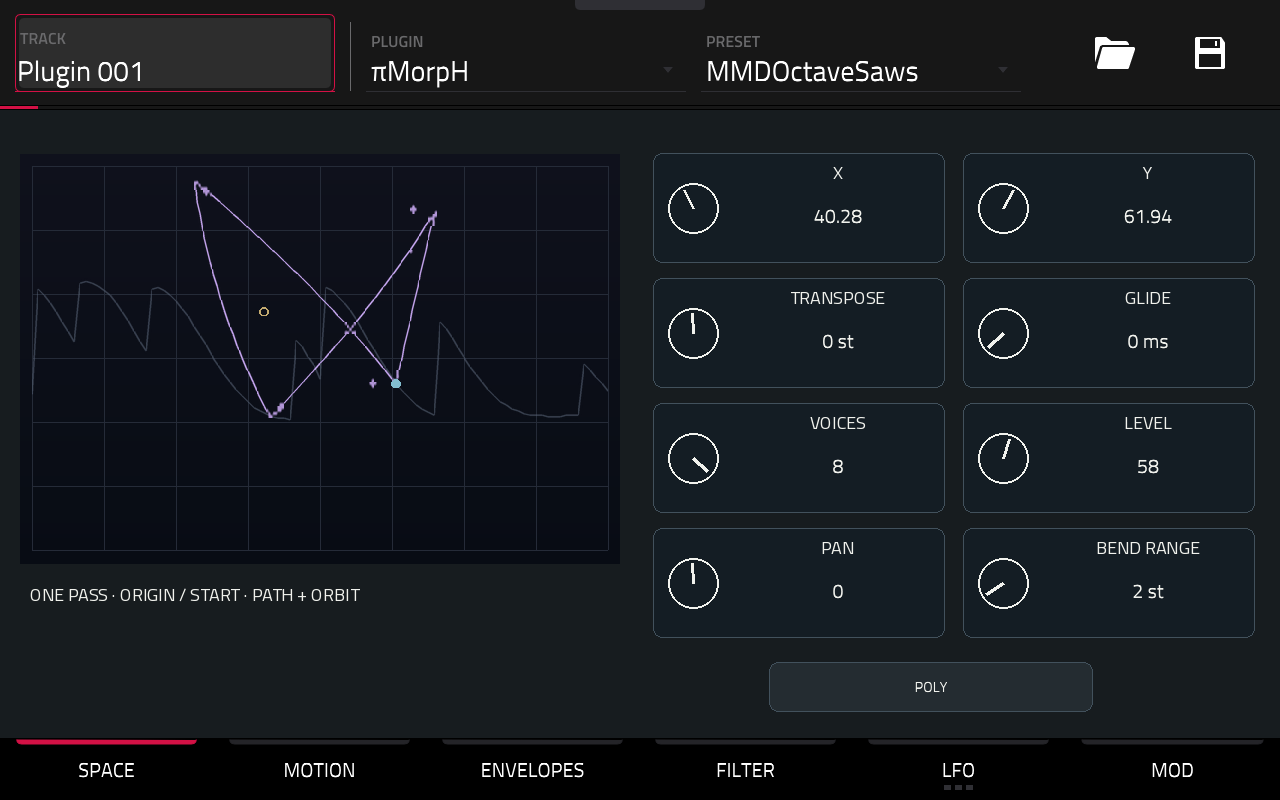
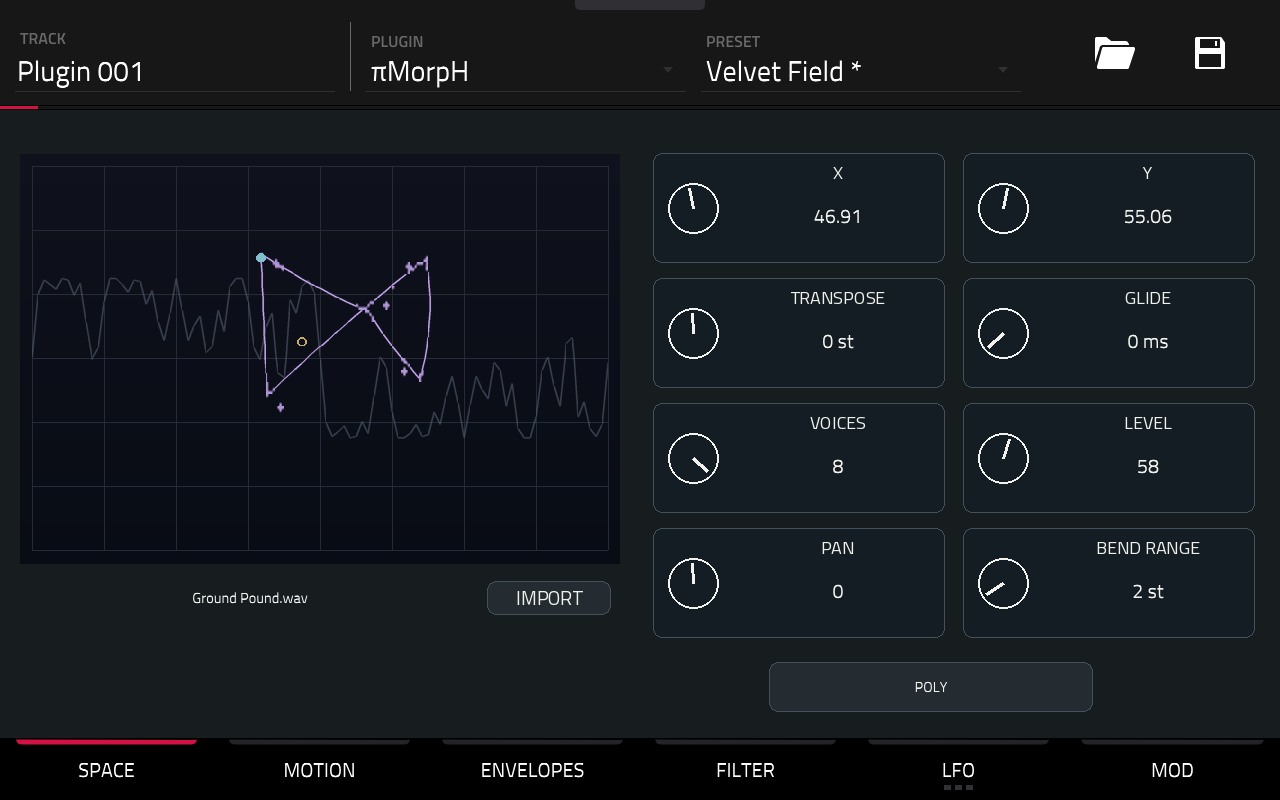
Release 0.1.2 Custom Wavetable with supported-format documentation

diff --git a/docs/MODE-EMPLOI.html b/docs/MODE-EMPLOI.html
@@ -2,7 +2,7 @@
 <p><a href="USER-MANUAL.md">English</a></p>
 <p>Choisis un son. Joue une note. Fais voyager son timbre.</p>
 <p><strong>πMorpH est un synthétiseur polyphonique à tables d’ondes.</strong> Chaque voix explore un espace XY, suit un trajet et une orbite, puis traverse deux filtres. Enveloppes et LFO donnent vie à l’ensemble.</p>
-<p>Ce guide décrit la version <strong>0.1.2 candidate, Force Gen1 / ARM32</strong>, avec <strong>100 sons paramétrés + INIT</strong>.</p>
+<p>Ce guide décrit la version <strong>0.1.2, Force Gen1 / ARM32</strong>, avec <strong>100 sons paramétrés + INIT</strong>.</p>
 <h2>1. Premier voyage</h2>
 <p>Charge πMorpH sur une piste Plugin.</p>
 <p>Ouvre <strong>PRESET</strong>, en haut à droite, et choisis un son. Les familles proposées vont des basses aux nappes, plucks, leads, textures et claviers. <strong>INIT</strong>, en fin de liste, offre un départ simple.</p>
@@ -31,12 +31,47 @@
 <li><strong>MONO</strong> : une voix, enveloppes redéclenchées.</li>
 <li><strong>LEGATO</strong> : une voix ; les notes liées gardent les enveloppes et le mouvement en cours.</li>
 </ul>
-<h3>Importer sa propre table</h3>
-<p>Dans <strong>SPACE</strong>, touche <strong>IMPORT</strong>, puis choisis un WAV sur <strong>DISKS</strong> ou <strong>USER</strong>. Premier appui : validation, <strong>VALID en vert</strong>, sans changer le son. Second appui sur le même fichier : <strong>LOADING en vert</strong>, puis fermeture du panneau. Une erreur apparaît en rouge avec <strong>ERROR :</strong> ; la table actuelle reste chargée.</p>
-<p><strong>1 à 256 formes</strong> avec métadonnées de cycles cohérentes, de <strong>512, 1 024 ou 2 048 échantillons</strong> chacune. WAV <strong>PCM 16 bits, PCM 32 bits ou flottant 32 bits</strong>, mono ou stéréo.</p>
-<p>La taille des formes est reconnue automatiquement. La stéréo est moyennée en mono ; le niveau est normalisé en mémoire. La fréquence indiquée dans le WAV ne change pas la hauteur de l’oscillateur.</p>
+<h3>Custom Wavetable — Ta propre matière</h3>
+<p>Dans <strong>SPACE</strong>, touche <strong>IMPORT</strong>, puis choisis un WAV sur <strong>DISKS</strong> ou <strong>USER</strong>.</p>
+<p><strong>Premier appui</strong> : validation, <strong>VALID en vert</strong>, sans changer le son.</p>
+<p><strong>Second appui</strong> sur le même fichier : <strong>LOADING en vert</strong>, puis fermeture du panneau.</p>
+<p><strong>ERROR :</strong> apparaît en rouge en cas d’échec ; la table actuelle reste chargée.</p>
+<table>
+<thead>
+<tr>
+<th>WAV</th>
+<th>Canaux</th>
+<th>Échantillons par forme</th>
+<th>Formes</th>
+</tr>
+</thead>
+<tbody>
+<tr>
+<td>PCM 16 bits</td>
+<td>Mono ou stéréo</td>
+<td>512 / 1 024 / 2 048</td>
+<td>1 à 256 avec métadonnées cohérentes</td>
+</tr>
+<tr>
+<td>PCM 32 bits</td>
+<td>Mono ou stéréo</td>
+<td>512 / 1 024 / 2 048</td>
+<td>1 à 256 avec métadonnées cohérentes</td>
+</tr>
+<tr>
+<td>Flottant 32 bits</td>
+<td>Mono ou stéréo</td>
+<td>512 / 1 024 / 2 048</td>
+<td>1 à 256 avec métadonnées cohérentes</td>
+</tr>
+</tbody>
+</table>
+<p>Les métadonnées de cycles sont respectées : une table de 64 × 2 048 reste une table de 64 formes. Sans métadonnées, les exports de 256 formes sont reconnus par leur longueur ; les autres découpages doivent être non ambigus.</p>
+<p>La stéréo est moyennée en mono ; le niveau est normalisé en mémoire.</p>
+<p>La fréquence indiquée dans le WAV ne change pas la hauteur de l’oscillateur : 44,1 et 48 kHz sont acceptés sans rééchantillonnage audio.</p>
 <p>Tes réglages restent en place. En cas d’échec, la table actuelle reste chargée.</p>
 <p>Le preset et le projet mémorisent <strong>le chemin du WAV</strong> : conserve-le au même endroit. Le fichier d’origine n’est jamais modifié.</p>
+<p>Le nom du WAV apparaît sous le graphique. Le nom du preset en haut reste celui du son de départ tant que tu n’en sauvegardes pas un nouveau.</p>
 <h2>3. MOTION — Dessiner le voyage</h2>
 <p><img alt="MOTION sur la Force" src="images/motion-force.png" /></p>
 <p>Le déplacement commence avec chaque nouvelle voix. Sa durée suit le tempo de la Force.</p>

diff --git a/docs/USER-MANUAL.html b/docs/USER-MANUAL.html
@@ -2,7 +2,7 @@
 <p><a href="MODE-EMPLOI.md">Français</a></p>
 <p>Pick a sound. Play a note. Let its timbre travel.</p>
 <p><strong>πMorpH is a polyphonic wavetable synthesizer.</strong> Each voice explores an XY space, follows a path and an orbit, then passes through two filters. Envelopes and LFOs bring it to life.</p>
-<p>This guide describes the <strong>0.1.2 candidate, Force Gen1 / ARM32</strong> release with <strong>100 shaped sounds + INIT</strong>.</p>
+<p>This guide describes the <strong>0.1.2, Force Gen1 / ARM32</strong> release with <strong>100 shaped sounds + INIT</strong>.</p>
 <h2>1. Your first journey</h2>
 <p>Load πMorpH on a Plugin track.</p>
 <p>Open <strong>PRESET</strong> at the top right and choose a sound. The bank covers basses, pads, plucks, leads, textures and keys. <strong>INIT</strong>, at the end of the list, offers a simple starting point.</p>
@@ -31,12 +31,47 @@
 <li><strong>MONO</strong>: one voice, with envelopes retriggered.</li>
 <li><strong>LEGATO</strong>: one voice; overlapping notes keep the envelopes and movement running.</li>
 </ul>
-<h3>Import your own table</h3>
-<p>In <strong>SPACE</strong>, press <strong>IMPORT</strong>, then choose a WAV from <strong>DISKS</strong> or <strong>USER</strong>. First tap validates without changing the sound: <strong>VALID in green</strong>. Tap the same file again: <strong>LOADING in green</strong>, then the panel closes. Errors appear in red with <strong>ERROR :</strong> and leave the current table active.</p>
-<p><strong>1–256 waveforms</strong> with consistent cycle metadata, each containing <strong>512, 1024 or 2048 samples</strong>. <strong>PCM16, PCM32 or float32 WAV</strong>, mono or stereo.</p>
-<p>Cycle size is detected automatically. Stereo is averaged to mono and the table is normalized in memory. The WAV sample-rate field does not change oscillator pitch.</p>
+<h3>Custom Wavetable — Your own material</h3>
+<p>In <strong>SPACE</strong>, press <strong>IMPORT</strong>, then choose a WAV from <strong>DISKS</strong> or <strong>USER</strong>.</p>
+<p><strong>First tap</strong> validates without changing the sound: <strong>VALID in green</strong>.</p>
+<p><strong>Tap the same file again</strong>: <strong>LOADING in green</strong>, then the panel closes.</p>
+<p><strong>ERROR :</strong> appears in red on failure, leaving the current table active.</p>
+<table>
+<thead>
+<tr>
+<th>WAV encoding</th>
+<th>Channels</th>
+<th>Samples per waveform</th>
+<th>Waveforms</th>
+</tr>
+</thead>
+<tbody>
+<tr>
+<td>PCM 16-bit</td>
+<td>Mono or stereo</td>
+<td>512 / 1024 / 2048</td>
+<td>1–256 with consistent cycle metadata</td>
+</tr>
+<tr>
+<td>PCM 32-bit</td>
+<td>Mono or stereo</td>
+<td>512 / 1024 / 2048</td>
+<td>1–256 with consistent cycle metadata</td>
+</tr>
+<tr>
+<td>Float 32-bit</td>
+<td>Mono or stereo</td>
+<td>512 / 1024 / 2048</td>
+<td>1–256 with consistent cycle metadata</td>
+</tr>
+</tbody>
+</table>
+<p>Valid cycle metadata takes precedence: a 64 × 2048 table stays a 64-waveform table. Without metadata, 256-waveform exports are detected by length; other layouts must be unambiguous.</p>
+<p>Stereo is averaged to mono and the table is normalized in memory.</p>
+<p>The WAV sample-rate field does not change oscillator pitch: 44.1 and 48 kHz files are accepted without audio resampling.</p>
 <p>Your sound settings remain. If import fails, the current table stays loaded.</p>
 <p>Presets and projects store <strong>the WAV path</strong>: keep it at that location. The original file is never modified.</p>
+<p>The WAV filename appears below the graph. The preset name at the top remains the starting sound’s name until you save a new preset.</p>
 <h2>3. MOTION — Draw the journey</h2>
 <p><img alt="MOTION on Force" src="images/motion-force.png" /></p>
 <p>Movement starts with each newly triggered voice. Its timing follows the Force tempo.</p>

diff --git a/scripts/package_release.py b/scripts/package_release.py
@@ -3,6 +3,8 @@ from pathlib import Path
 import json,hashlib,zipfile,shutil,subprocess,sys,xml.etree.ElementTree as E
 from config import B,FOLDER,VERSION
 sha=lambda p:hashlib.sha256(p.read_bytes()).hexdigest()
+promotion_path=B/'Validation/RELEASE-PROMOTION.json'
+promotion=json.loads(promotion_path.read_text()) if promotion_path.exists() else {}
 RELEASE_VERSION=VERSION.split('-')[0]
 assert RELEASE_VERSION=='0.1.2'
 assert Path(B/'Validation/IMPORT-TEST.json').exists()
@@ -18,10 +20,12 @@ shutil.copytree(B/'Wavetables',stage/'Wavetables');shutil.copytree(B/'docs',stag
 shutil.copy2(B/'LICENSE',stage/'licenses/piMorpH-GPL-3.0.txt');shutil.copy2(B/'THIRD-PARTY.md',stage/'licenses/THIRD-PARTY.md')
 for src,dst in [('third_party/mpc-wrapper/LICENSE','wrapper-MIT.txt'),('third_party/PolyWerk/LICENSE','PolyWerk-MIT.txt'),('third_party/MS20XXL/LICENSE','MS20XXL-GPL.txt'),('third_party/overcast/LICENSE','Overcast-MIT.txt'),('reference/fonts/OFL.txt','Titillium-OFL.txt')]:shutil.copy2(B/src,stage/'licenses'/dst)
 shutil.copy2(B/'presets/programs.json',stage/'factory-programmes.json')
-(stage/'PROVENANCE.json').write_text(json.dumps(dict(version=VERSION,architecture='armv7',engine_sha256=sha(B/'build/pimorph.so'),factory_programmes=101,tables=100,source_repo='timomacquis/piMorpH-MPC',build_inputs=built['inputs'],hardware_qualified=False),indent=2)+'\n')
+(stage/'PROVENANCE.json').write_text(json.dumps(dict(version=VERSION,architecture='armv7',engine_sha256=sha(B/'build/pimorph.so'),factory_programmes=101,tables=100,source_repo='timomacquis/piMorpH-MPC',build_inputs=built['inputs'],hardware_qualified=False,device_smoke_validated=bool(promotion.get('device_smoke_validated')),runtime_identical_to=promotion.get('candidate')),indent=2)+'\n')
+if promotion:
+ for n,h in promotion['runtime_sha256'].items():assert sha(B/'build/pimorph.so' if n=='pimorph.so' else stage/n)==h,'Validated runtime changed: '+n
 entry=B/'build/release-entry.xml';entry.write_text(E.tostring(E.Element('PLUGIN',name='πMorpH',descriptiveName='πMorpH',format='VST',category='Synth',manufacturer='Timo',version=RELEASE_VERSION,file='%payload-path%/'+FOLDER+'/pimorph.so',uid='50694d48',isInstrument='1',numInputs='0',numOutputs='2'),encoding='unicode'))
 out=B/'dist';out.mkdir(exist_ok=True);tools=B/'third_party/open-mpc-release/tools'
-subprocess.run([sys.executable,str(tools/'release.py'),'--so',str(B/'build/pimorph.so'),'--skin',str(stage),'--entry',str(entry),'--version',RELEASE_VERSION,'--id','pimorph','--repo','timomacquis/piMorpH-MPC','--license','GPL-3.0-or-later','--about','Polyphonic XY wavetable synthesizer with paths, orbit, dual envelopes, HP/LP filters, dual LFOs, modulation matrix and 100 original multi-frame wavetable sounds with disk import.','-o',str(out)],check=True)
+subprocess.run([sys.executable,str(tools/'release.py'),'--so',str(B/'build/pimorph.so'),'--skin',str(stage),'--entry',str(entry),'--version',RELEASE_VERSION,'--id','pimorph','--repo','timomacquis/piMorpH-MPC','--license','GPL-3.0-or-later','--about','Polyphonic XY wavetable synthesizer with paths, orbit, dual envelopes, HP/LP filters, dual LFOs, modulation matrix and 100 factory sounds plus Custom Wavetable import.','-o',str(out)],check=True)
 p=out/('MorpH-'+RELEASE_VERSION+'-mpc-armv7.zip');target=out/('piMorpH-'+VERSION+'-mpc-armv7.zip');p.replace(target)
 subprocess.run([sys.executable,str(tools/'catalog_check.py'),str(target),'--catalog','--require-portable','--expect-id','pimorph','--expect-repo','timomacquis/piMorpH-MPC'],check=True)
 with zipfile.ZipFile(target) as z:

diff --git a/scripts/config.py b/scripts/config.py
@@ -1,7 +1,7 @@
 from pathlib import Path
 import math
 B=Path(__file__).resolve().parents[1]
-VERSION='0.1.2-candidate.2'
+VERSION='0.1.2'
 FOLDER='Timo - VST - πMorpH'
 PAGES=['SPACE','MOTION','ENVELOPES','FILTER','LFO','MOD']
 WAVES=['SINE','TRIANGLE','RAMP UP','RAMP DOWN','SQUARE','SAMPLE & HOLD','RANDOM SMOOTH','FREE CURVE','RANDOM WALK','RANDOM LOOP','BOUNCE']

diff --git a/README.md b/README.md
@@ -16,27 +16,42 @@ Each voice moves through a wavetable space using a path and an elliptical orbit.
 - Native touch controls, contextual Q-Links and compact selection panels.
 - Cached graphical previews, with background updates held during editing.
 - **100 original multi-frame wavetable sounds + INIT**, in the native PRESET menu.
-- Native preset/project state, including all musical parameters and the selected table.
+- **Custom Wavetable**: import your own WAV tables from the device drives.
+- Native preset/project state, including musical parameters and the selected table or external file path.
 
 ## Download
 
-[πMorpH 0.1.1 — Force Gen1 / ARMv7](https://github.com/timomacquis/piMorpH-MPC/releases/tag/v0.1.1)
+[πMorpH 0.1.2 — Force Gen1 / ARMv7](https://github.com/timomacquis/piMorpH-MPC/releases/tag/v0.1.2)
 
-Package: **piMorpH-0.1.1-mpc-armv7.zip**. Use the included standard installer after saving your project. No Gen2 package is provided.
+Package: **piMorpH-0.1.2-mpc-armv7.zip**. Use the included standard installer after saving your project. No Gen2 package is provided.
 
 [Français](docs/MODE-EMPLOI.md) · [English](docs/USER-MANUAL.md) · [Build](docs/BUILD.md) · [Validation](docs/VALIDATION.md).
 
-This update replaces the previous Adventure Kid bank, assembled from single-cycle waveforms, with 100 original multi-frame wavetable patches plus INIT. Velvet Field, edited on the Force, is preset 1. Keep the 0.1.0 package for projects using its old table filenames.
+## Custom Wavetable
+
+In **SPACE**, press **IMPORT** and browse **DISKS** or **USER**.
+
+1. Tap a WAV: **VALID** appears in green after validation, without changing the current sound.
+2. Tap the same file again: **LOADING** appears in green, then the panel closes.
+3. Shape the sound and save it through the native PRESET menu.
+
+| WAV encoding | Channels | Samples per waveform | Waveforms per table |
+|---|---|---|---|
+| PCM 16-bit | Mono or stereo | 512 / 1024 / 2048 | 1–256 with consistent cycle metadata |
+| PCM 32-bit | Mono or stereo | 512 / 1024 / 2048 | 1–256 with consistent cycle metadata |
+| Float 32-bit | Mono or stereo | 512 / 1024 / 2048 | 1–256 with consistent cycle metadata |
+
+Metadata-free 256-waveform exports are detected by length; other unambiguous layouts are accepted. Valid cycle metadata takes precedence, including 64 × 2048 tables. Stereo is averaged to mono and levels are normalized in memory. The WAV sample-rate field does not set oscillator pitch; 44.1 and 48 kHz files are supported without audio resampling.
+
+**The original WAV is never modified.** Presets and projects retain its absolute path: keep the file at that location. Invalid or silent files produce a red **ERROR :** message and leave the current table active. [Details](docs/IMPORT.md).
+
+The factory bank remains **100 sounds + INIT**, with Velvet Field first. Keep the 0.1.0 package for projects that reference its former Adventure Kid table filenames.
+
 
 ## Status
 
-Offline engine, wrapper, state, wavetable-loading and rendering tests pass. Earlier versions of the engine and skin were exercised on the author's Force; see version-specific validation notes. No new exhaustive device or Gen2 qualification is implied. Screenshots show the native interface before the bank change, with earlier preset names.
+Force Gen1 / ARM32. The installed 0.1.2 candidate was validated on the device; this release retains its exact engine, skin and factory bank. PC tests cover accepted import formats, two-tap selection, saved VST state, failure fallback, native programs and graphics notification limits. This does not claim exhaustive device qualification or Gen2 compatibility.
 
 ## Sources and licensing
 
 GPL-3.0-or-later for the instrument. Original factory wavetables included with redistribution permission. Full credits and component licenses: [THIRD-PARTY.md](THIRD-PARTY.md). No ROM or commercial instrument factory-bank extractions are included.
-
-
-## Local development candidate
-
-0.1.2-candidate.2 adds disk wavetable IMPORT. See [IMPORT](docs/IMPORT.md) for supported formats, automatic adaptation and external-file persistence. This candidate has not been installed or published. The download above remains the public 0.1.1 release.

diff --git a/docs/MODE-EMPLOI.md b/docs/MODE-EMPLOI.md
@@ -6,7 +6,7 @@ Choisis un son. Joue une note. Fais voyager son timbre.
 
 **πMorpH est un synthétiseur polyphonique à tables d’ondes.** Chaque voix explore un espace XY, suit un trajet et une orbite, puis traverse deux filtres. Enveloppes et LFO donnent vie à l’ensemble.
 
-Ce guide décrit la version **0.1.2 candidate, Force Gen1 / ARM32**, avec **100 sons paramétrés + INIT**.
+Ce guide décrit la version **0.1.2, Force Gen1 / ARM32**, avec **100 sons paramétrés + INIT**.
 
 ## 1. Premier voyage
 
@@ -51,17 +51,33 @@ Le bouton du bas choisit le jeu :
 - **MONO** : une voix, enveloppes redéclenchées.
 - **LEGATO** : une voix ; les notes liées gardent les enveloppes et le mouvement en cours.
 
-### Importer sa propre table
+### Custom Wavetable — Ta propre matière
 
-Dans **SPACE**, touche **IMPORT**, puis choisis un WAV sur **DISKS** ou **USER**. Premier appui : validation, **VALID en vert**, sans changer le son. Second appui sur le même fichier : **LOADING en vert**, puis fermeture du panneau. Une erreur apparaît en rouge avec **ERROR :** ; la table actuelle reste chargée.
+Dans **SPACE**, touche **IMPORT**, puis choisis un WAV sur **DISKS** ou **USER**.
 
-**1 à 256 formes** avec métadonnées de cycles cohérentes, de **512, 1 024 ou 2 048 échantillons** chacune. WAV **PCM 16 bits, PCM 32 bits ou flottant 32 bits**, mono ou stéréo.
+**Premier appui** : validation, **VALID en vert**, sans changer le son.
 
-La taille des formes est reconnue automatiquement. La stéréo est moyennée en mono ; le niveau est normalisé en mémoire. La fréquence indiquée dans le WAV ne change pas la hauteur de l’oscillateur.
+**Second appui** sur le même fichier : **LOADING en vert**, puis fermeture du panneau.
+
+**ERROR :** apparaît en rouge en cas d’échec ; la table actuelle reste chargée.
+
+| WAV | Canaux | Échantillons par forme | Formes |
+|---|---|---|---|
+| PCM 16 bits | Mono ou stéréo | 512 / 1 024 / 2 048 | 1 à 256 avec métadonnées cohérentes |
+| PCM 32 bits | Mono ou stéréo | 512 / 1 024 / 2 048 | 1 à 256 avec métadonnées cohérentes |
+| Flottant 32 bits | Mono ou stéréo | 512 / 1 024 / 2 048 | 1 à 256 avec métadonnées cohérentes |
+
+Les métadonnées de cycles sont respectées : une table de 64 × 2 048 reste une table de 64 formes. Sans métadonnées, les exports de 256 formes sont reconnus par leur longueur ; les autres découpages doivent être non ambigus.
+
+La stéréo est moyennée en mono ; le niveau est normalisé en mémoire.
+
+La fréquence indiquée dans le WAV ne change pas la hauteur de l’oscillateur : 44,1 et 48 kHz sont acceptés sans rééchantillonnage audio.
 
 Tes réglages restent en place. En cas d’échec, la table actuelle reste chargée.
 
 Le preset et le projet mémorisent **le chemin du WAV** : conserve-le au même endroit. Le fichier d’origine n’est jamais modifié.
+
+Le nom du WAV apparaît sous le graphique. Le nom du preset en haut reste celui du son de départ tant que tu n’en sauvegardes pas un nouveau.
 
 ## 3. MOTION — Dessiner le voyage
 

diff --git a/docs/USER-MANUAL.md b/docs/USER-MANUAL.md
@@ -6,7 +6,7 @@ Pick a sound. Play a note. Let its timbre travel.
 
 **πMorpH is a polyphonic wavetable synthesizer.** Each voice explores an XY space, follows a path and an orbit, then passes through two filters. Envelopes and LFOs bring it to life.
 
-This guide describes the **0.1.2 candidate, Force Gen1 / ARM32** release with **100 shaped sounds + INIT**.
+This guide describes the **0.1.2, Force Gen1 / ARM32** release with **100 shaped sounds + INIT**.
 
 ## 1. Your first journey
 
@@ -51,17 +51,33 @@ The bottom button chooses the playing mode:
 - **MONO**: one voice, with envelopes retriggered.
 - **LEGATO**: one voice; overlapping notes keep the envelopes and movement running.
 
-### Import your own table
+### Custom Wavetable — Your own material
 
-In **SPACE**, press **IMPORT**, then choose a WAV from **DISKS** or **USER**. First tap validates without changing the sound: **VALID in green**. Tap the same file again: **LOADING in green**, then the panel closes. Errors appear in red with **ERROR :** and leave the current table active.
+In **SPACE**, press **IMPORT**, then choose a WAV from **DISKS** or **USER**.
 
-**1–256 waveforms** with consistent cycle metadata, each containing **512, 1024 or 2048 samples**. **PCM16, PCM32 or float32 WAV**, mono or stereo.
+**First tap** validates without changing the sound: **VALID in green**.
 
-Cycle size is detected automatically. Stereo is averaged to mono and the table is normalized in memory. The WAV sample-rate field does not change oscillator pitch.
+**Tap the same file again**: **LOADING in green**, then the panel closes.
+
+**ERROR :** appears in red on failure, leaving the current table active.
+
+| WAV encoding | Channels | Samples per waveform | Waveforms |
+|---|---|---|---|
+| PCM 16-bit | Mono or stereo | 512 / 1024 / 2048 | 1–256 with consistent cycle metadata |
+| PCM 32-bit | Mono or stereo | 512 / 1024 / 2048 | 1–256 with consistent cycle metadata |
+| Float 32-bit | Mono or stereo | 512 / 1024 / 2048 | 1–256 with consistent cycle metadata |
+
+Valid cycle metadata takes precedence: a 64 × 2048 table stays a 64-waveform table. Without metadata, 256-waveform exports are detected by length; other layouts must be unambiguous.
+
+Stereo is averaged to mono and the table is normalized in memory.
+
+The WAV sample-rate field does not change oscillator pitch: 44.1 and 48 kHz files are accepted without audio resampling.
 
 Your sound settings remain. If import fails, the current table stays loaded.
 
 Presets and projects store **the WAV path**: keep it at that location. The original file is never modified.
+
+The WAV filename appears below the graph. The preset name at the top remains the starting sound’s name until you save a new preset.
 
 ## 3. MOTION — Draw the journey
 

diff --git a/docs/VALIDATION.md b/docs/VALIDATION.md
@@ -1,7 +1,7 @@
-# Validation — πMorpH 0.1.1
+# Validation — πMorpH 0.1.2
 
-The exact 100-patch + INIT replacement bank is checked on PC for full-state restoration, table loading, rendering and native VST programme enumeration. See generated validation reports for results. This does not establish equal loudness or exhaustive musical quality.
+The installed 0.1.2-candidate.2 was confirmed on Force Gen1. The public release is a packaging/documentation promotion with identical engine, native skin, factory tables and program states. The current device capture shows a custom WAV loaded in SPACE.
 
-The prior 107-patch variant was installed on Force Gen1. The exact 0.1.1 100-patch package has not been installed on the device. Previous hardware UI/audio results concern the unchanged engine and skin, not a full test of this new bank.
+PC checks pass for the 18 combinations of PCM16/PCM32/float32, mono/stereo and 512/1024/2048 samples per waveform; valid 64 × 2048 cycle metadata; two-tap validation/loading; unchanged sound during selection; missing, invalid and silent-file fallback; browser navigation and cancellation; and external-path restoration through real VST chunks. All 101 factory programs pass state/render checks. Native and wrapper checks retain bounded graphics notifications.
 
-No Verified catalogue status or fresh CPU result is claimed. Keep the previous version for projects referencing its Adventure Kid filenames.
+This records an author-reported device smoke test, not exhaustive device qualification, an install/uninstall certification or Gen2 compatibility. Existing catalog verification status is unchanged.

diff --git a/docs/RELEASE-NOTES.md b/docs/RELEASE-NOTES.md
@@ -1,6 +1,6 @@
-# πMorpH 0.1.2-candidate.2 — IMPORT
+# πMorpH 0.1.2 — Custom Wavetable
 
-Local Force Gen1 candidate; not installed or published.
+Import your own wavetables from the device drives. Force Gen1 / ARM32 release.
 
 - IMPORT button in SPACE with a compact, dimmed-background disk browser and 36 px panel buttons.
 - PCM16, PCM32 and float32 WAV; mono or stereo; up to 256 waveforms of 512, 1024 or 2048 samples each.
@@ -13,7 +13,7 @@ Local Force Gen1 candidate; not installed or published.
 - Existing 4012 parameter indices are unchanged; 17 import/browser parameters are appended (4029 total).
 - The native bank stays at 100 sounds + INIT. Existing regular-image padding and graphics notification limits are retained.
 
-PC validation covers import formats, stereo cancellation, state persistence, failure fallback, browser navigation, latest-request wins, original factory sounds and native engine/wrapper sanitizer checks. Device UI and audio validation remain pending.
+PC validation covers import formats, stereo cancellation, state persistence, failure fallback, browser navigation, latest-request wins, original factory sounds and native engine/wrapper sanitizer checks. The installed candidate was confirmed on Force Gen1; this release retains its identical engine, skin and factory bank.
 
 ---
 

diff --git a/docs/BUILD.md b/docs/BUILD.md
@@ -1,4 +1,4 @@
-# Building πMorpH 0.1.1
+# Building πMorpH 0.1.2
 
 Target: Force Gen1, ARMv7 hard-float. The x86_64 build is for offline tests.
 
@@ -11,6 +11,7 @@ python3 scripts/build.py
 python3 scripts/build_skin.py
 python3 scripts/test_native.py
 python3 tests/factory_sounds_test.py
+python3 tests/import_test.py
 python3 scripts/package_release.py
 ```
 
@@ -19,3 +20,5 @@ The 100 original multi-frame wavetables are included under `Wavetables`. `preset
 `params.lock` preserves parameter indices. Do not force regeneration or reorder existing controls. Factory INIT is appended after the 100 table-based programs.
 
 Packaging uses the pinned Open MPC release tools and validates the portable catalog format. It does not access or install on a device.
+
+Custom Wavetable uses the existing background worker. Import/browser parameters are append-only (4029 total); `import_phase` controls the native status colours. `src/import_wavetable.h` validates cycle layout and the optional loader hint enables stereo averaging without changing factory-table decoding. Run `tests/import_format_test.cpp` with ASan/UBSan for malformed-header/stereo-cancellation cases; `tests/import_wrapper_test.c` covers real native VST chunk persistence.

diff --git a/THIRD-PARTY.md b/THIRD-PARTY.md
@@ -12,7 +12,7 @@
 
 ## Factory wavetables
 
-The 0.1.1 bank contains 100 original multi-frame wavetable files supplied for inclusion in the factory bank with redistribution permission. Format: mono WAV, PCM 16-bit, 44.1 kHz, 1024 samples per waveform, 256 waveforms per table. Original PCM is preserved; frame-size metadata is added for the loader. The bank includes 100 sound patches plus INIT. Velvet Field incorporates the edited Force preset.
+The factory bank contains 100 original multi-frame wavetable files supplied for inclusion in the factory bank with redistribution permission. Format: mono WAV, PCM 16-bit, 44.1 kHz, 1024 samples per waveform, 256 waveforms per table. Original PCM is preserved; frame-size metadata is added for the loader. The bank includes 100 sound patches plus INIT. Velvet Field incorporates the edited Force preset.
 
 The Adventure Kid bank belongs to release 0.1.0 and is not included in the 0.1.1 factory bank. Its historical license and provenance notices are retained for traceability; they do not assign CC0 to the new factory wavetables.
 

diff --git a/docs/NOTES.md b/docs/NOTES.md
@@ -21,3 +21,7 @@ Append-only disk import/browser controls. User-approved PCM32/float32, stereo-to
 
 ## 2026-11-12 — IMPORT candidate.2
 Respect valid cycle metadata before inferring a 256-frame export. RandomFFT2 header corresponds to 64 x 2048 float32 mono and is valid. Two-tap cached validation/load workflow, red ERROR : and green VALID/LOADING. Import button 36px with 16px gap and current WAV name. Append import_phase and table_name without shifting existing controls. No hardware validation claimed.
+
+
+## 2026-11-12 — 0.1.2 Custom Wavetable release
+Candidate.2 confirmed on Force Gen1. Promote without changing runtime bytes. FR/EN manuals and README describe encodings, mono/stereo adaptation, cycle metadata, validation/loading colours and persistent external paths. Public package and sources updated; no restart required for this documentation promotion.
